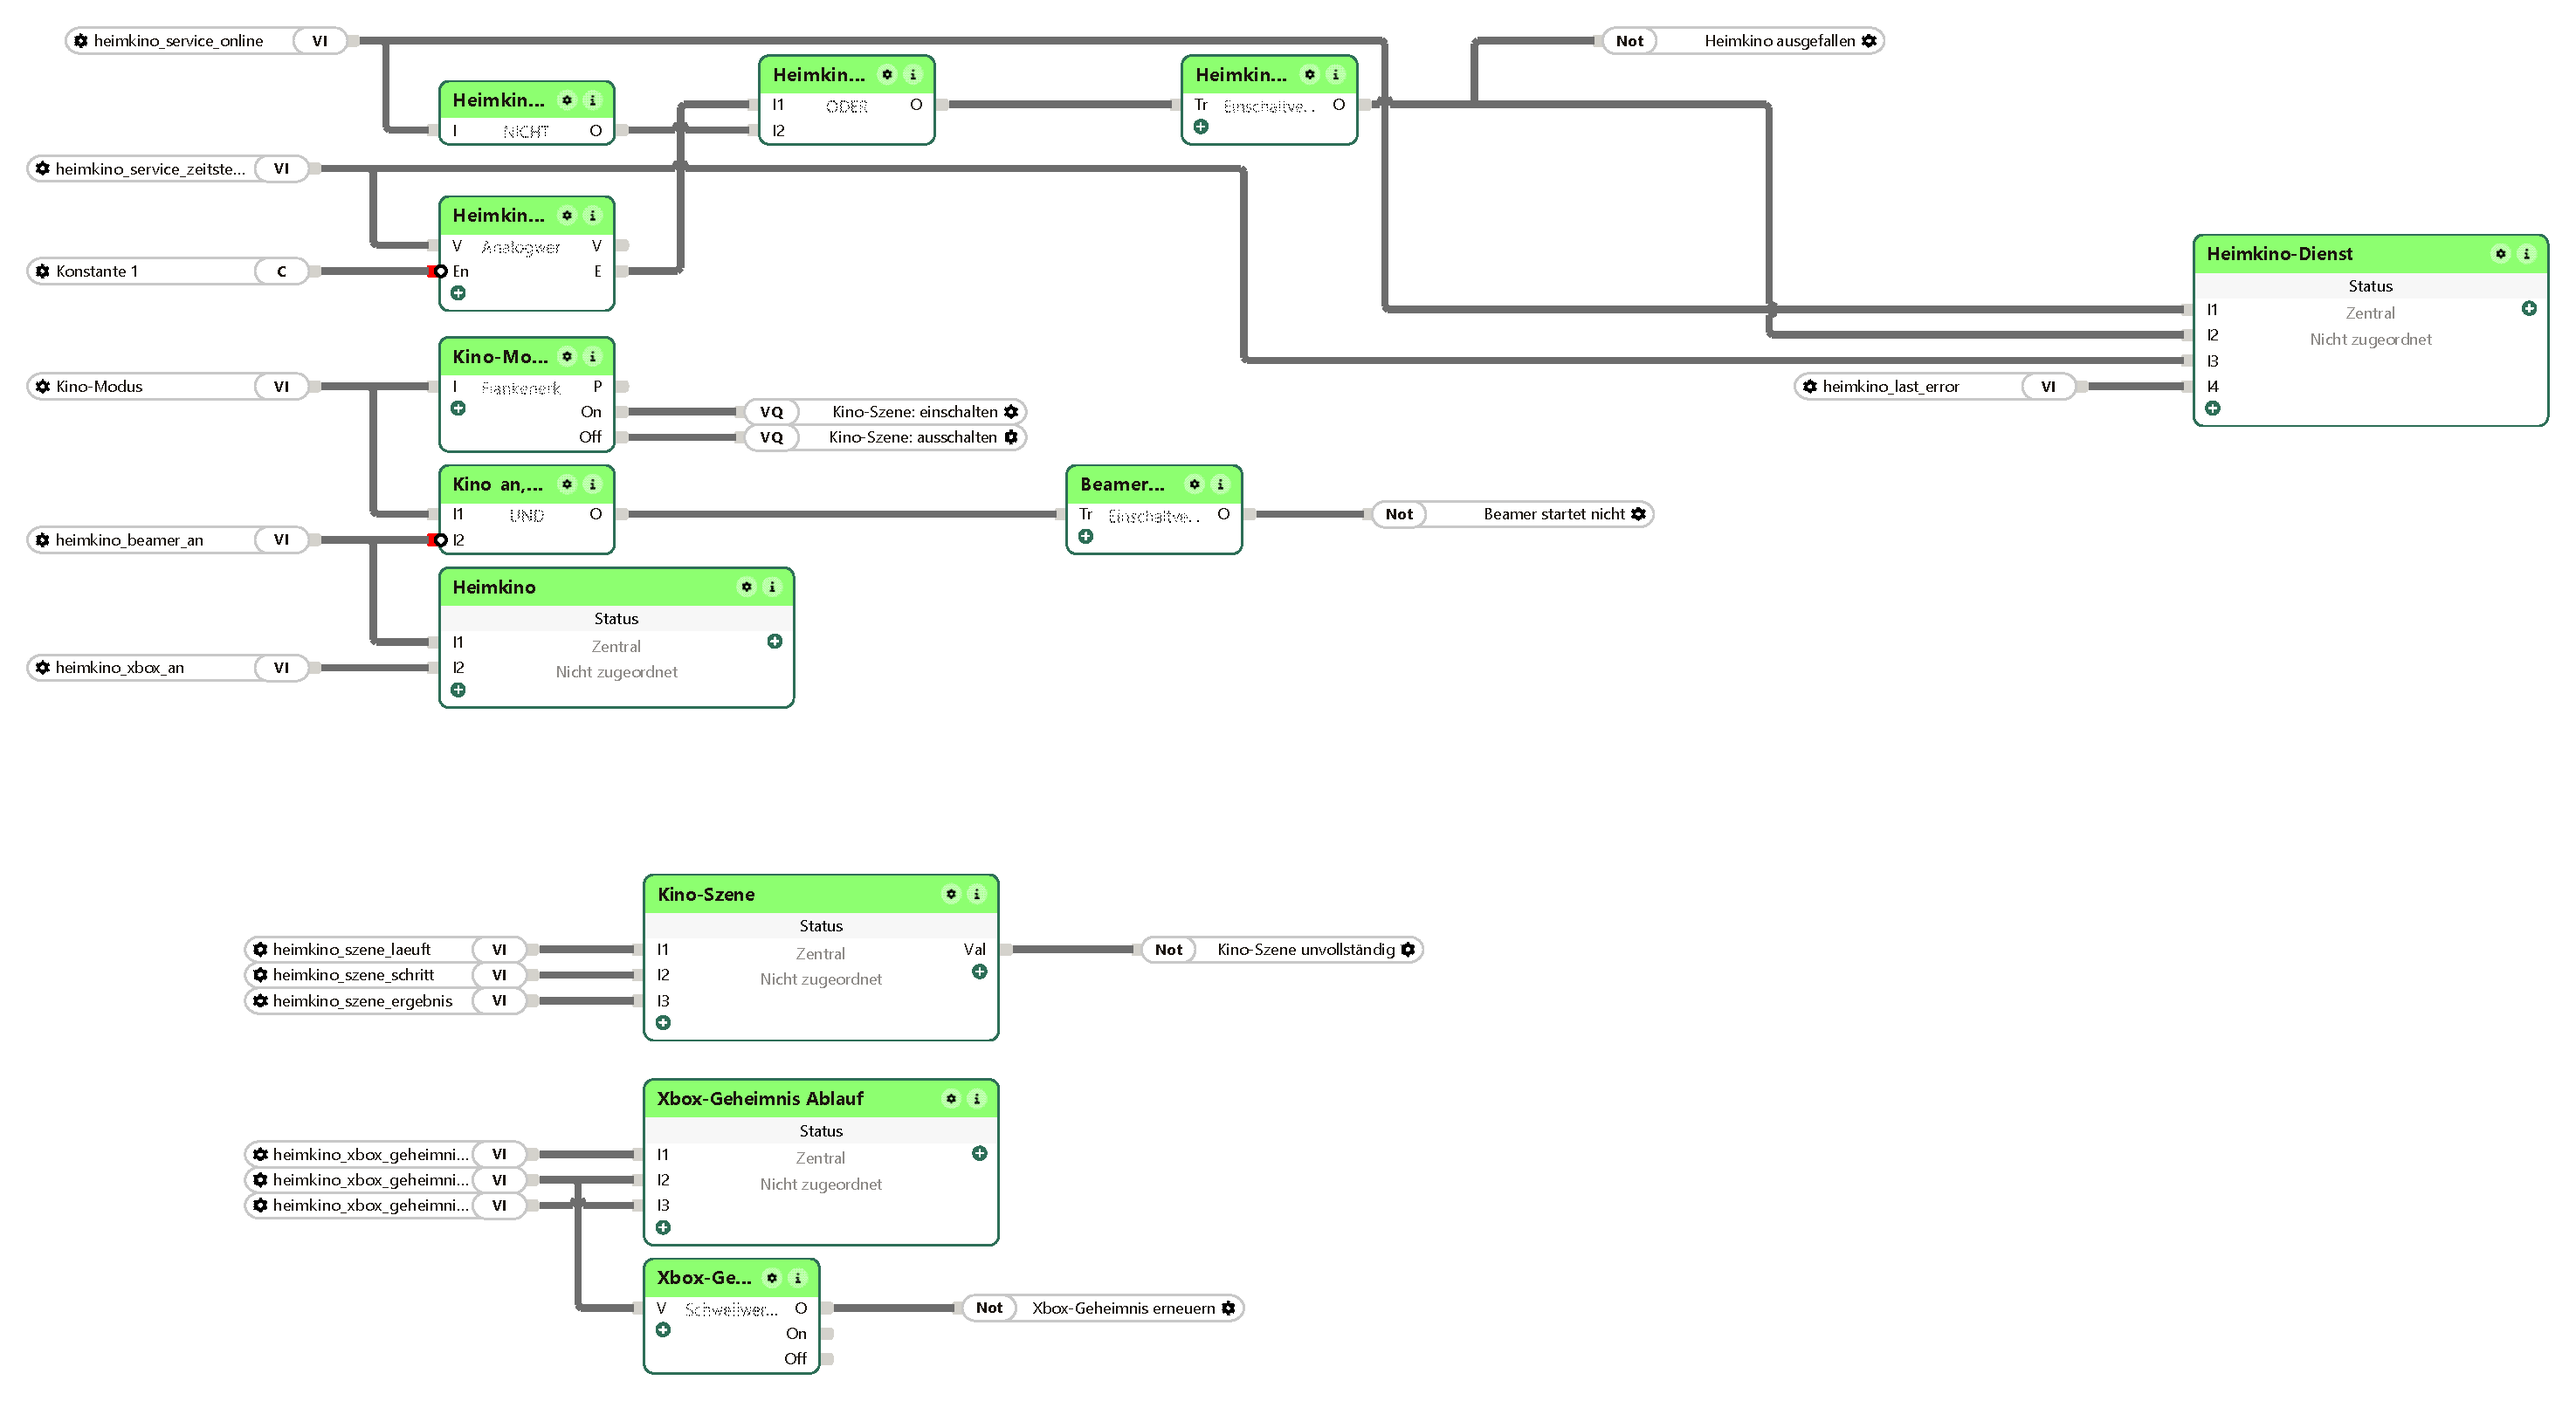
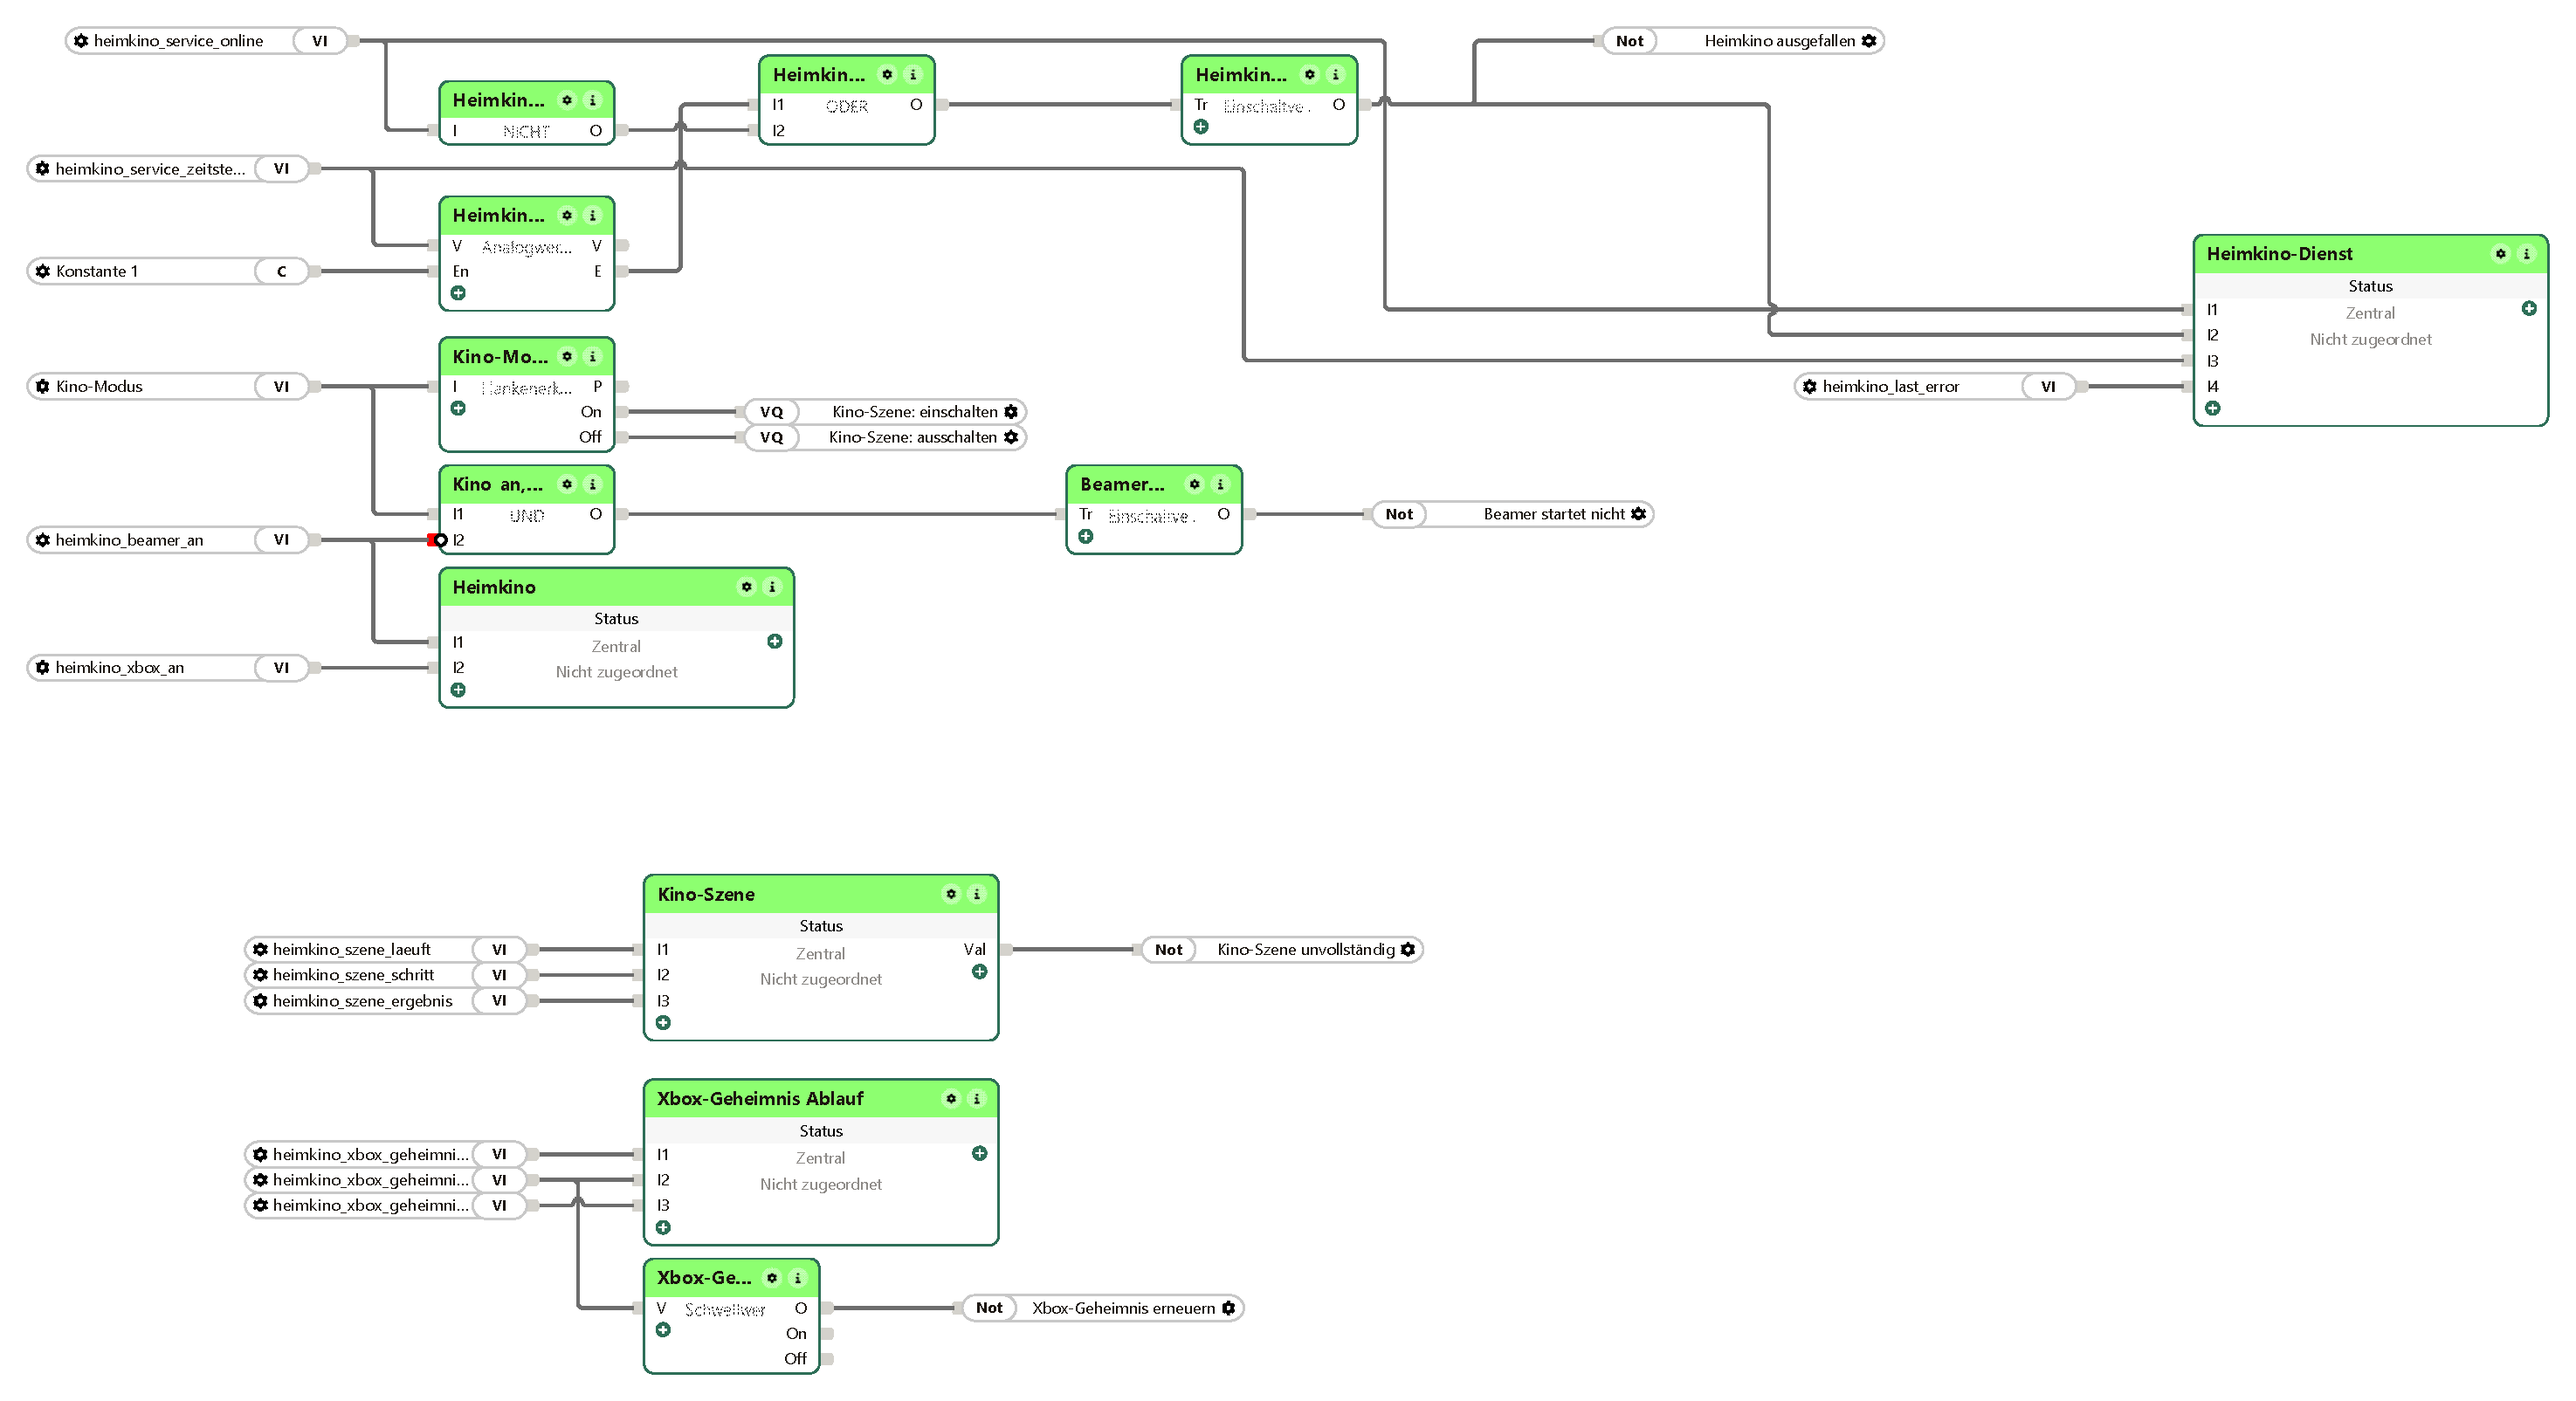
Heimkino 1.3.27: Einbindung: Eingang En der Analogwertvalidierung nicht negieren (Hinweis, Bild)
Einbindung in Loxone: Eingang En der Analogwertvalidierung nicht negieren (Hinweis und Bild);
ohne diese Korrektur löste die Ausfallmeldung nie aus. Wer die Seite schon gebaut hat: Haken bei
‚En‘ entfernen.

diff --git a/README.md b/README.md
@@ -13,6 +13,12 @@ Plugin füllt genau die beiden Lücken, nicht mehr:
 | Xbox **einschalten** | über den Cloud-Dienst von Microsoft. **Dieses Plugin.** |
 | Xbox **ausschalten** | ebenso. |
 
+## Neu in 1.3.27
+
+Einbindung in Loxone: Eingang En der Analogwertvalidierung nicht negieren (Hinweis und Bild);
+ohne diese Korrektur löste die Ausfallmeldung nie aus. Wer die Seite schon gebaut hat: Haken bei
+‚En‘ entfernen.
+
 ## Neu in 1.3.26
 
 Vollausstattung aus dem [LoxBerry-Plugins Musterprojekt](https://github.com/timanders22/LoxBerry-Plugins-Musterprojekt): Der Reiter „Einbindung in
